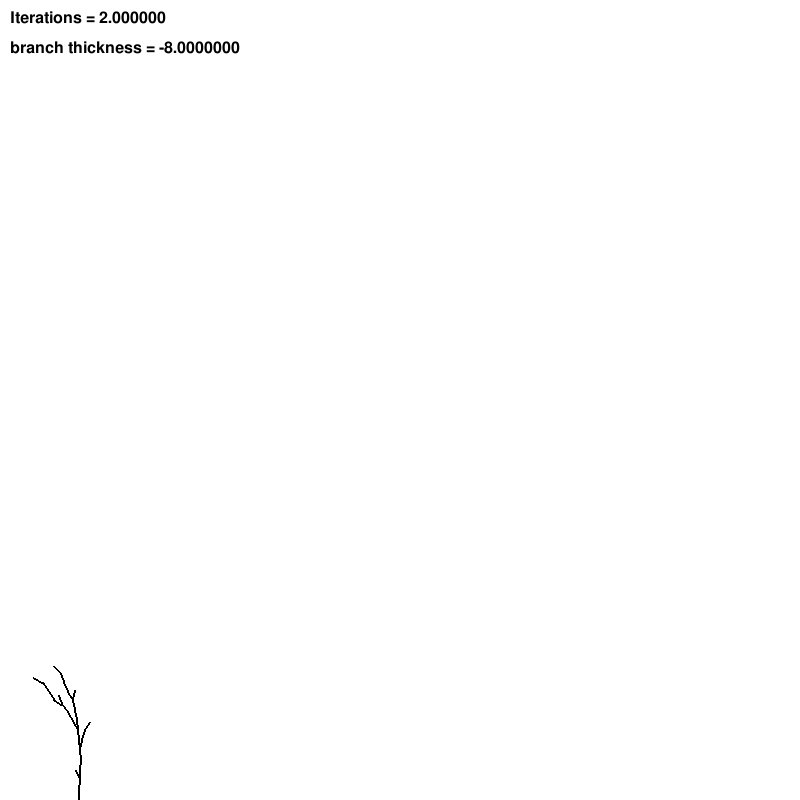
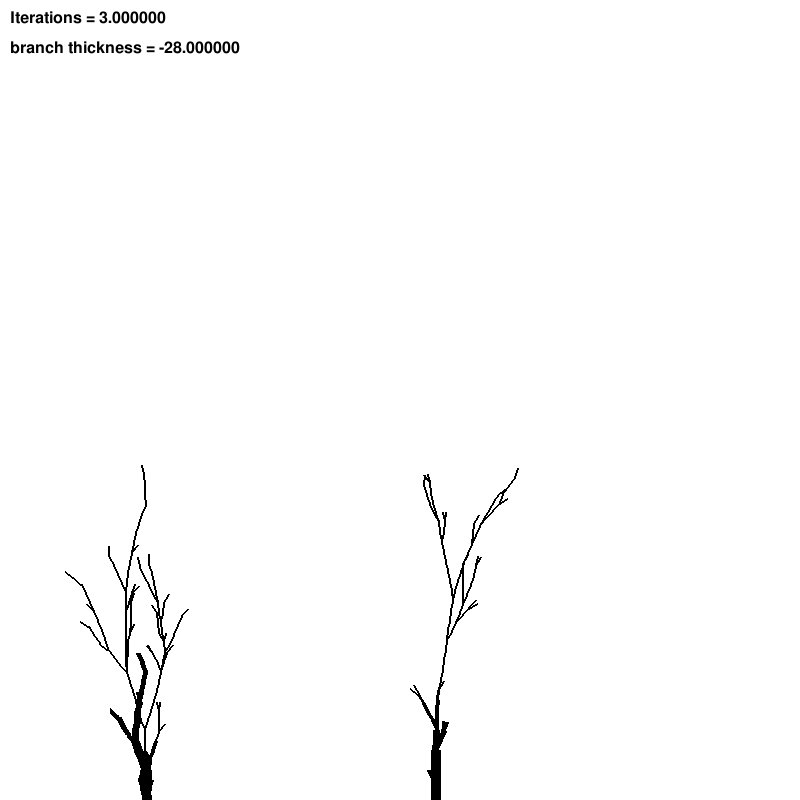
josh updated v3

diff --git a/l_systems_sim.py b/l_systems_sim.py
@@ -52,7 +52,7 @@ class Branch:
         self.tempy = 0
 
     def drawbranch(self, screen, seg_thickness):
-        # draw branch based on equations (1) and (2)
+        # draw branch based on updated state variables
         pygame.draw.line(screen,BLACK,(self.startx,self.starty),(self.endx,self.endy),int(seg_thickness))
 
     def updatebranch(self, newstartx, newstarty, newendx, newendy):
@@ -93,10 +93,10 @@ def drawtree(screen, fullstring, posx, posy, seg_thickness, da, iterations):
     # store the state in array
     state_endofbranch = []
     state_angle = []
+    state_thickness = []
 
     # set initial variables
     branchcount = 0
-    max_seg_thickness = seg_thickness
     grow_angle = -90
     text = MyText(BLACK)
 
@@ -104,7 +104,7 @@ def drawtree(screen, fullstring, posx, posy, seg_thickness, da, iterations):
     for symbol in fullstring:
         if symbol == 'F':
             seg_length = 10
-            grow_angle = random.randint(grow_angle-5,grow_angle+5)
+            grow_angle = random.randint(grow_angle - 2, grow_angle + 2)
 
             # calculate state of turtle using update rule of equations (1) and (2)
             dx = cos(radians(grow_angle)) * seg_length
@@ -150,26 +150,24 @@ def drawtree(screen, fullstring, posx, posy, seg_thickness, da, iterations):
 
         elif symbol == '[':
             # if symbol '[', change thickness and append state of branch
-            if ((branchcount * iterations) > (iterations*5)):
-                seg_thickness = seg_thickness - 3 # equation (3)
-            
+
+            # decrease thickness for new branch
+            seg_thickness -= 1
+
             # state of branch stored as x and y of end of branches and angle
             state_endofbranch.append((posx,posy))
             state_angle.append(grow_angle)
+            state_thickness.append(seg_thickness)
 
         elif symbol == ']':
-            # if symbol ']', change thickness and pop state of branch from list
-            if ((branchcount * iterations) > (iterations * 5)):
-                seg_thickness = seg_thickness + 2 # equation (4)
-                #seg_thickness = max_seg_thickness
-                #print(seg_thickness)
-
+            # if symbol ']', pop state of branch from list
             # replace current state of turtle with state removed
             posx, posy = state_endofbranch.pop()
             grow_angle = state_angle.pop()
+            seg_thickness = state_thickness.pop()
 
         text.draw("Iterations = %f" % iterations, screen, (10,10))
-        text.draw("branch thickness = %f" % seg_thickness, screen, (10,40))
+        text.draw("Branch Thickness = %f" % seg_thickness, screen, (10,40))
 
 # function: maketree
     # parameters: string axiom, int iterations
@@ -193,7 +191,7 @@ def maketree(axiom, iterations):
     # returns: none
     # desc: generates the window for the simulation
 def draw_landscape(current_run):
-    # create pygame window 
+    # create pygame window
     pygame.init()
 
     # change the background size if background image included
@@ -240,15 +238,14 @@ def draw_landscape(current_run):
 
     # define l-system parameters for sim
     axiom = "X"
-    iterations = 2
+    iterations = 3
     da = 20
 
-    # set available area for tree to be drawn
-    posix = window_length/2.
+    # set available area for tree to be drawn with floor operation for int
+    posix = window_length // 2
     posiy = window_height
 
-    
-    # init update variables 
+    # init update variables
     clock = pygame.time.Clock()
     clock_ticks = pygame.time.get_ticks()
     seg_thickness = int(sys.argv[1])
@@ -261,11 +258,18 @@ def draw_landscape(current_run):
     if (int(sys.argv[3]) == 1):
         screen.blit(backgroundimg,(0,0))
 
+    # store location of trees drawn
+    state_location = []
+
     # create number of trees specified in cmd-line argument 2
     for i in range(int(sys.argv[2])):
 
         # find random position for tree to grow based on window_length
-        posix = random.randint(20,window_length)
+        posix = random.randint(20, window_length)
+
+        while (posix in state_location):
+            posix = random.randint(20, window_length)
+            state_location.append(posix)
 
         # get list of elements for creating tree
         fullstring = maketree(axiom, iterations)
